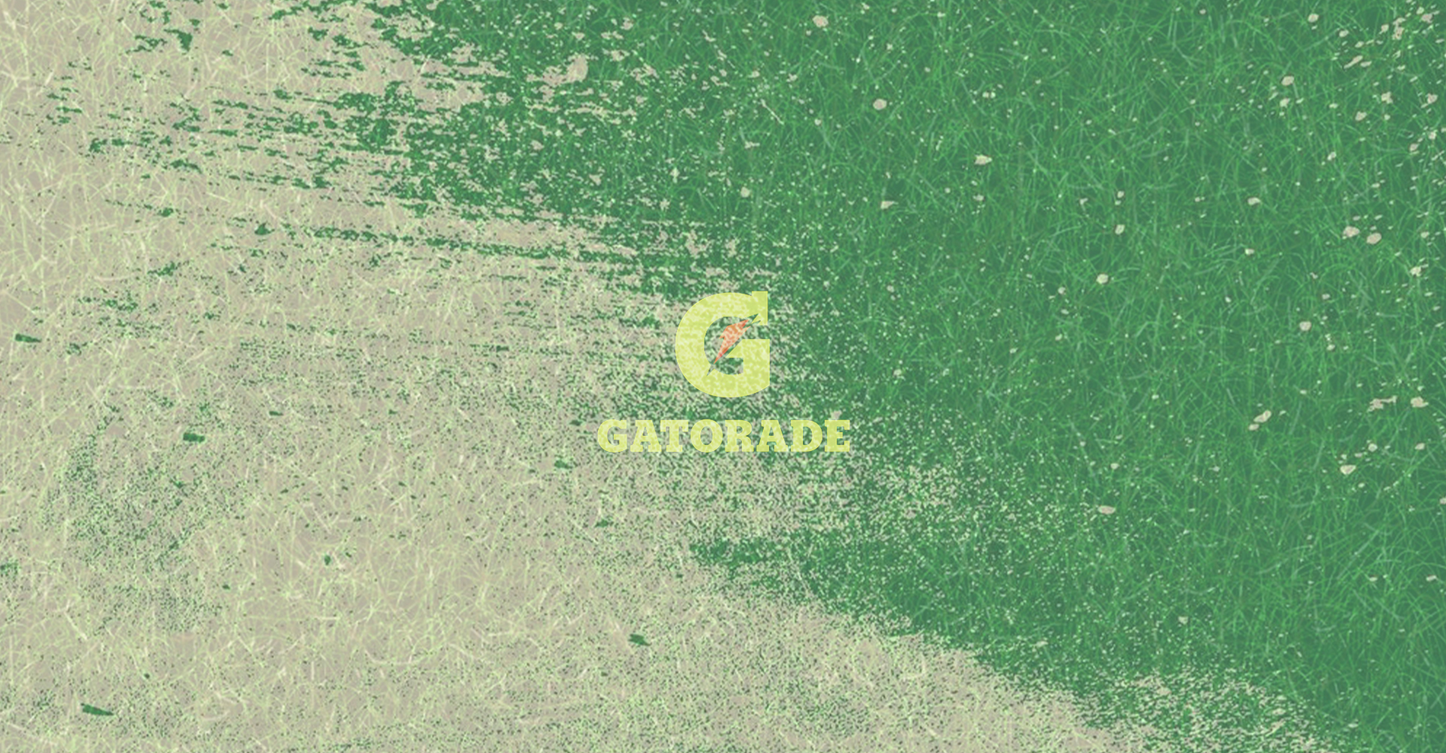
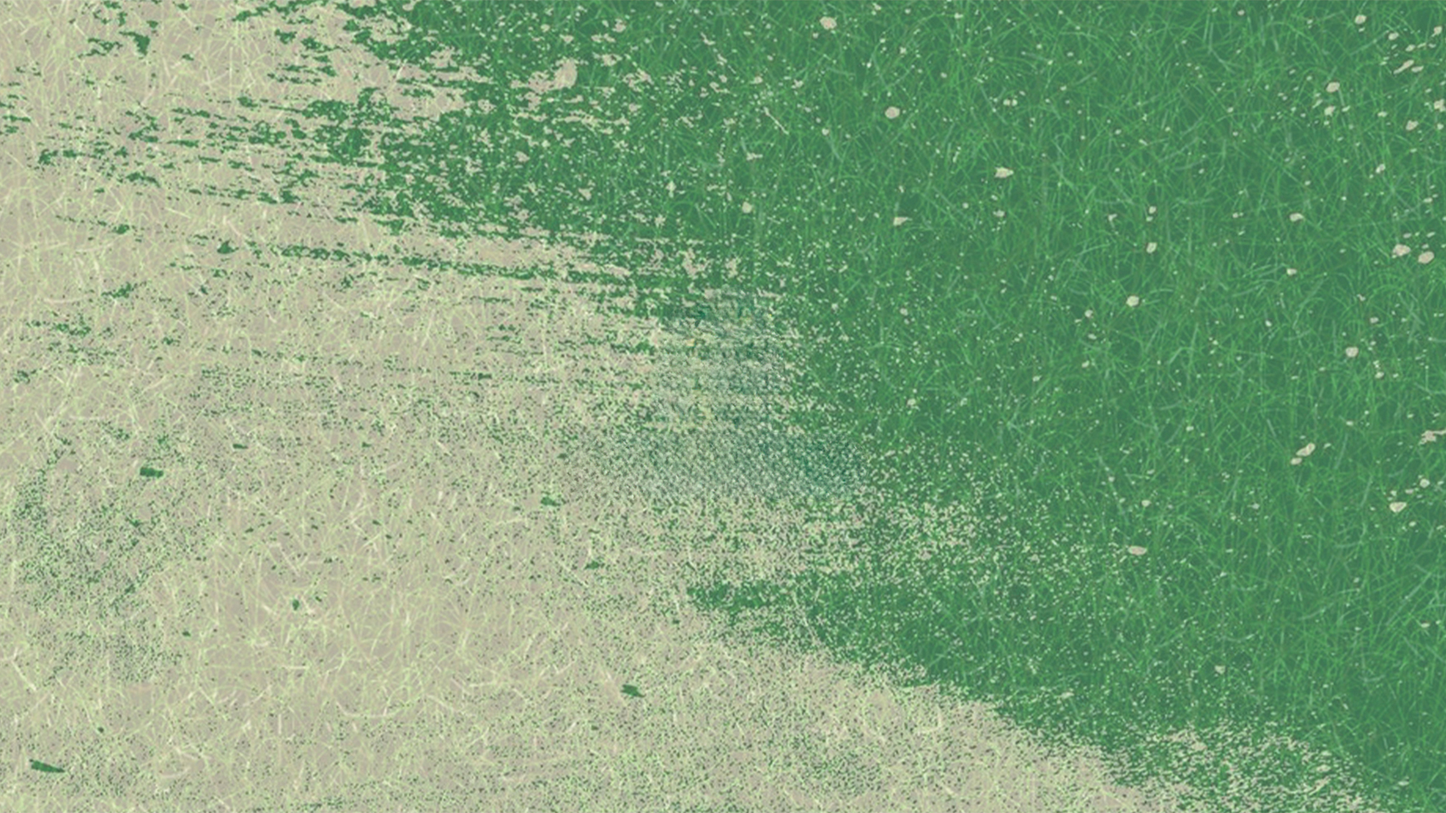
main 완성

diff --git a/css/style.css b/css/style.css
@@ -24,10 +24,18 @@ body .bg {
   height: 100%;
   position: fixed;
   z-index: -1;
+  background-image: url(../images/GatoradeBg.jpg);
+  background-position: center;
 }
-body .bg img {
-  width: 100%;
-  height: 100%;
+body .bg .mobileBg {
+  opacity: 0;
+}
+body .bg .backLogo {
+  position: absolute;
+  top: 70%;
+  left: 50%;
+  transform: translate(-50%, -50%);
+  opacity: 0.7;
 }
 body header {
   width: 100%;
@@ -156,6 +164,11 @@ body footer .inner .footerContent .sns ul li a {
   color: #bbb;
 }
 
+main {
+  width: 100%;
+  height: 100%;
+  overflow-x: hidden;
+}
 main article {
   height: 800px;
   width: 100%;
@@ -359,6 +372,10 @@ main #mainCompany img {
   }
 }
 @media screen and (max-width: 400px) {
+  body .bg .mobileBg {
+    width: 100%;
+    opacity: 1;
+  }
   body header {
     height: 70px;
   }

diff --git a/scss/_common.scss b/scss/_common.scss
@@ -17,9 +17,18 @@ body{
         height: 100%;
         position: fixed;
         z-index: -1;
-        img{
-            width: 100%;
-            height: 100%;
+        background-image: url(../images/GatoradeBg.jpg);
+        background-position: center;
+
+        .mobileBg{
+            opacity: 0;
+        }
+        .backLogo{
+            position: absolute;
+            top: 70%;
+            left: 50%;
+            transform: translate(-50%,-50%);
+            opacity: 0.7;
         }
     }
     header{

diff --git a/index.html b/index.html
@@ -11,7 +11,9 @@
 </head>
 <body>
     <div class="bg">
-        <img class="webBg" src="images/GatoradeBg.jpg" alt="사이트 백그라운드 배경 초록 베이지">
+        <img class="mobileBg" src="images/GatoradeBgMobile.jpg" alt="사이트 백그라운드 배경 초록 베이지">
+        <img class="backLogo" src="images/GatoradeBackLogo.png" alt="사이트 백그라운드 로고">
+    </div>
     <header>
         <div class="inner">
             <h1>

diff --git a/scss/_main.scss b/scss/_main.scss
@@ -1,4 +1,7 @@
 main{
+    width: 100%;
+    height: 100%;
+    overflow-x: hidden;
     article{
         height: 800px;
         width: 100%;
@@ -6,6 +9,7 @@ main{
         position: relative;
         transition: 0.7s;
         border: 1px solid #999;
+    
 
         a{
             display: block;

diff --git a/scss/media/_mobile.scss b/scss/media/_mobile.scss
@@ -1,5 +1,11 @@
 @media screen and (max-width : "400px") {
     body{
+        .bg{
+            .mobileBg{
+                width: 100%;
+                opacity: 1;
+            }
+        }
     header{
         height: 70px;
         .inner{
